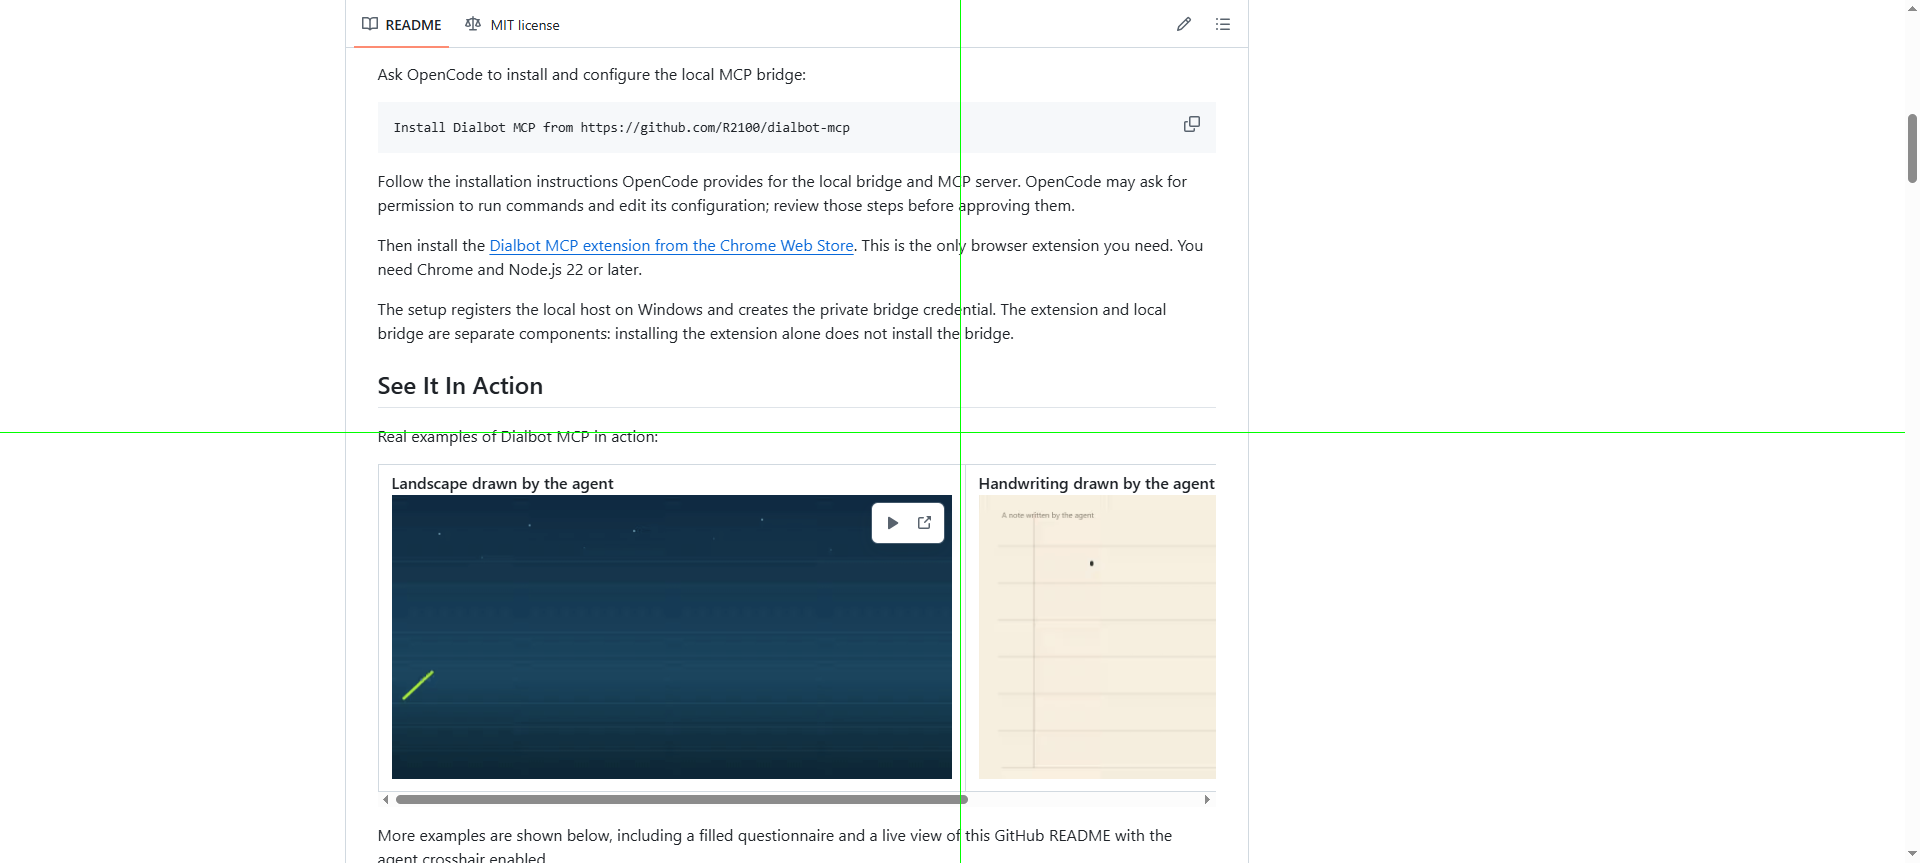
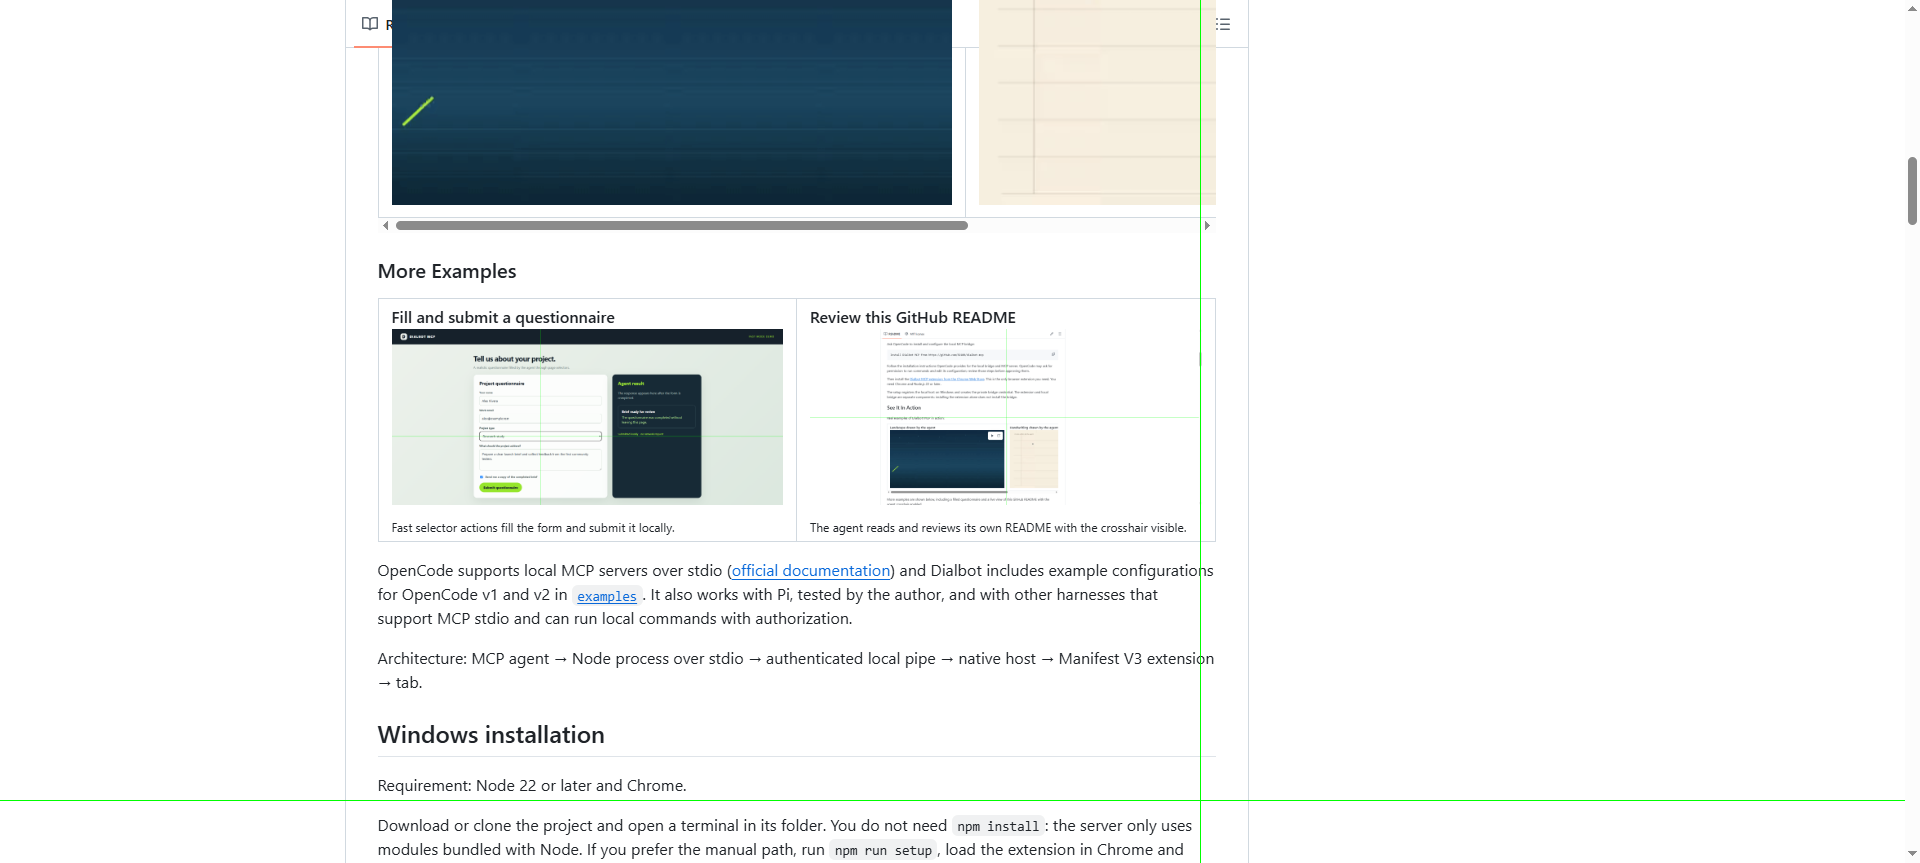
Document reproducible browser examples

Changed region(s): [[0.1875, 0.0, 0.6562, 1.0], [0.9688, 0.2109, 1.0, 0.241], [0.9688, 0.1506, 1.0, 0.1808]]

diff --git a/examples/store-demo/README.md b/examples/store-demo/README.md
@@ -1,0 +1,18 @@
+# Store Demo
+
+This demo provides a realistic questionnaire for testing fast selector actions.
+
+Start it from this directory:
+
+```powershell
+node server.mjs
+```
+
+Open `http://127.0.0.1:8765/questionnaire.html` in Chrome, then use the MCP tools to:
+
+- Fill `#name`, `#email` and `#goal` with `browser_fill`.
+- Select `#type` with a click and keyboard arrows.
+- Click `#updates` and `button[type="submit"]`.
+- Capture the completed page with `browser_screenshot`.
+
+The form never sends a network request. Use fictional values when recording examples.
